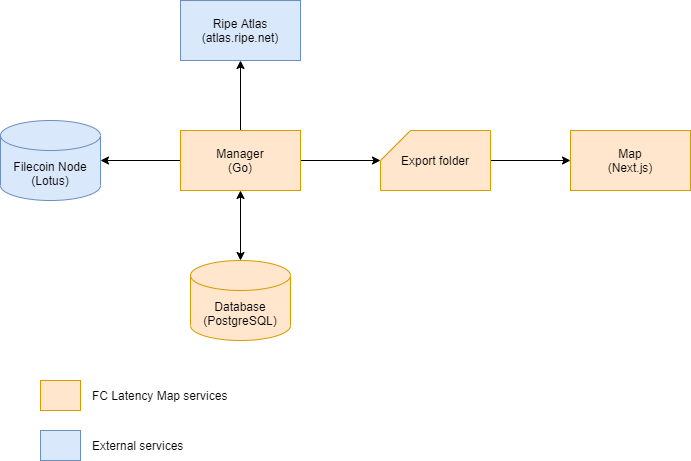
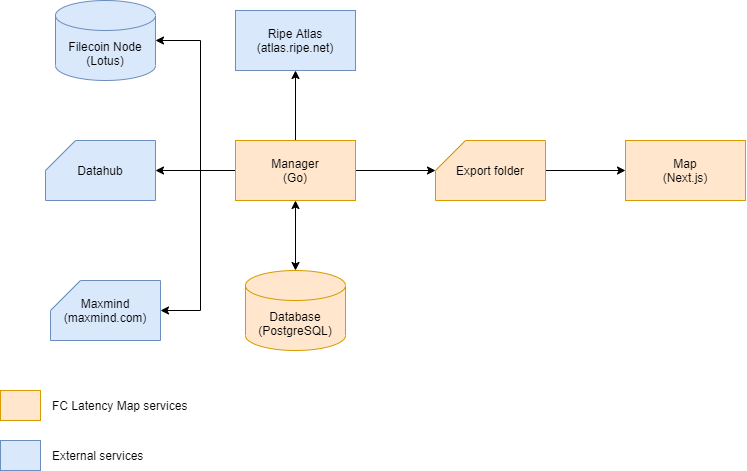
feat: add counter

diff --git a/map/src/components/map/Map.tsx b/map/src/components/map/Map.tsx
@@ -92,7 +92,7 @@ const Map = (props: Props) => {
         fill: "#C0C0C0",
       },
       {
-        name: "Miners",
+        name: "Active Miners",
         fill: "#4169E1",
       },
       {
@@ -362,11 +362,23 @@ const Map = (props: Props) => {
           minHeight: "500px",
         }}
       ></div>
-      <div className={styles.dates}>
-        {isPrevious()}
-        <div className={styles.date}>{date}</div>
-        {isNext()}
-      </div>
+
+      <Row gutter={[16, 16]}>
+        <Col span={8}></Col>
+        <Col span={8}>
+          <div className={styles.dates}>
+            {isPrevious()}
+            <div className={styles.date}>{date}</div>
+            {isNext()}
+          </div>
+        </Col>
+        <Col span={8}>
+          <div className={styles.counter}>
+            <strong>{miners.length}</strong> Active Miners /{" "}
+            <strong>{locations.length}</strong> Locations
+          </div>
+        </Col>
+      </Row>
 
       <Row gutter={[16, 16]} className={styles.informations}>
         <Col span={12}>

diff --git a/map/src/styles/Global.module.css b/map/src/styles/Global.module.css
@@ -40,6 +40,14 @@
   background-color: #f2f2f2;
 }
 
+.counter {
+  /* justify-content: left; */
+  text-align: right;
+  /* background-color: #f48055; */
+  padding: 10px 20px 0 0;
+  /* float: left; */
+}
+
 .dates a {
   padding-top: 7px !important;
 }

diff --git a/docs/technical-design.md b/docs/technical-design.md
@@ -2,7 +2,7 @@
 
 ## Description
 
-The FC Latency Map is composed of 2 services:
+The FC Latency Map is composed of 2 main services:
 
 - The <strong>Manager</strong> is responsible for getting all active miners and creating a latency metric for each. Manager data is stored in a local PostgreSQL database and each time measurements are made a JSON file is exported.
 
@@ -16,7 +16,11 @@ The FC Latency Map is composed of 2 services:
 
 <strong>Ripe Atlas:</strong> open, distributed Internet measurement platform that measure Internet connectivity in real time.
 
-<strong>Filecoin Node:</strong> node connected to Filecoin blockchain
+<strong>Filecoin Node:</strong> node connected to Filecoin blockchain.
+
+<strong>Datahub:</strong> JSON file with airports list.
+
+<strong>Maxmind:</strong> JSON file with IP geolocations.
 
 <strong>Manager:</strong> Go service to create and export measures in JSON.
 
@@ -82,7 +86,18 @@ To get measurements:
 
 - The probes are first selected from the database.
 - Then, a traceroute measurement is sent to Ripe Atlas.
-- Finally a loop control for updating and completing the measurement.
+
+#### Diagram
+
+<img src="./images/diagrams/create-measurements.png" width="60%">
+
+### Get measures
+
+#### Description
+
+To get measurements:
+
+- Loop control for updating and completing the measurement.
 
 #### Diagram
 
@@ -107,3 +122,28 @@ The JSON file schema is: [./json/schema.json](./json/schema.json)
 The JSON file naming convention is: `export-YYYY-MM-DD.json`
 
 ## Ripe Atlas costs
+
+Costs formula:
+
+`miners x locations x (probres anchor + probes) x traceroute price`
+
+Miner average settings for measurement:
+
+| Entity           | Quantity |
+| ---------------- | -------- |
+| miners           | 1        |
+| locations        | 75       |
+| probes           | 5        |
+| traceroute price | 10       |
+
+Estimations:
+
+<strong>For 1 miner</strong>
+
+1 x 75 x 5 x 10 = 3750 Ripe tokens / each measure
+
+<strong>For all 165 active miners</strong>
+
+Currently on october 2021 there are 165 active miners, so:
+
+3750 x 165 = 618 750 Ripe tokens for the one measure on 165 miners.
